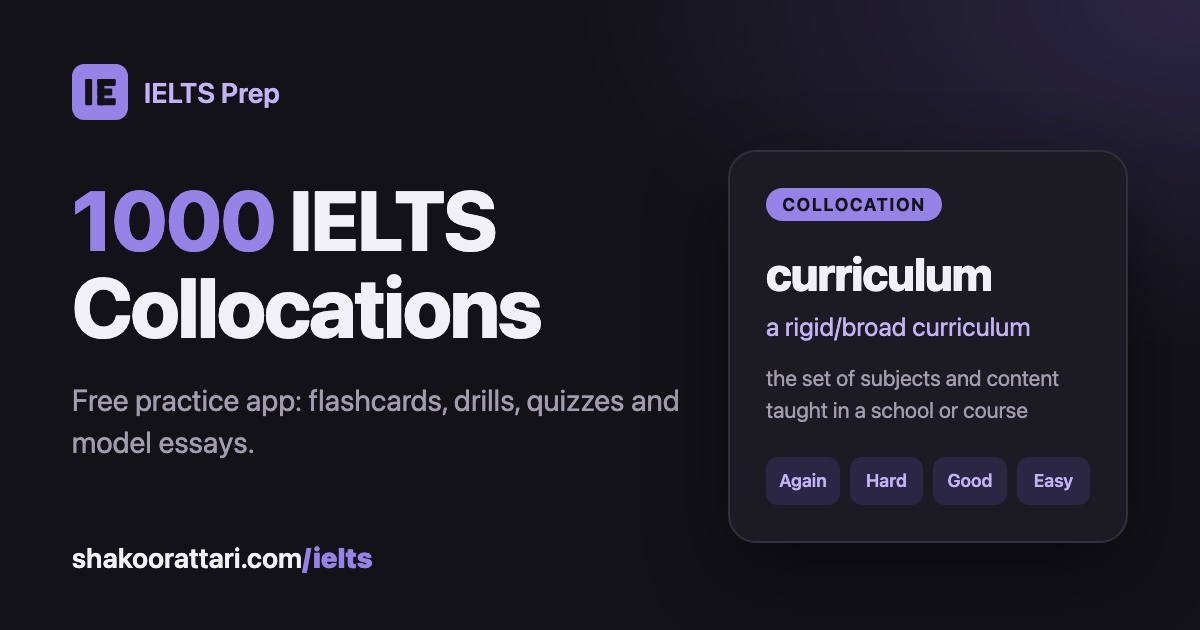
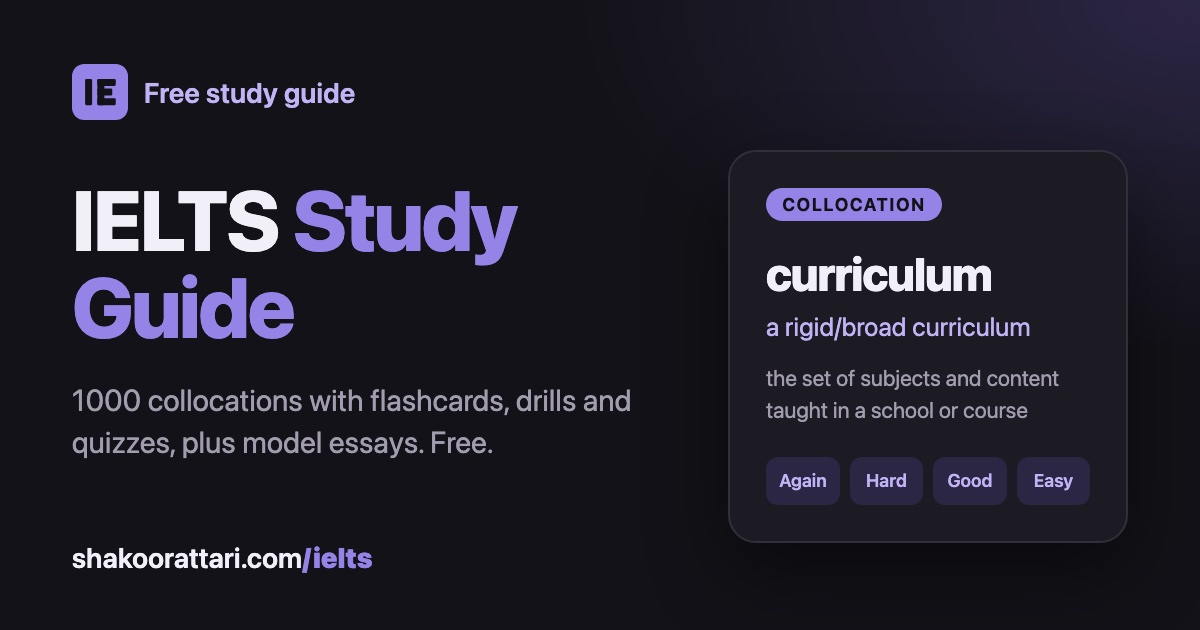
feat: brand the app as "IELTS Study Guide"
Rename from "1000 IELTS Collocations — Practice App" to the broader
"IELTS Study Guide" (title "IELTS Study Guide — 1000 Collocations & Model
Essays"): head metadata, JSON-LD name, static shell h1 and intro,
per-screen titles, header brand, 404, favicon label, README and the social
image. The brand text can now shrink so the header still fits at 320px.

diff --git a/index.html b/index.html
@@ -3,10 +3,10 @@
   <head>
     <meta charset="UTF-8" />
     <meta name="viewport" content="width=device-width, initial-scale=1.0" />
-    <title>1000 IELTS Collocations — Free Practice App</title>
+    <title>IELTS Study Guide — 1000 Collocations & Model Essays</title>
     <meta
       name="description"
-      content="Learn 1000 IELTS collocations with spaced-repetition flashcards, fill-in-the-blank drills, quizzes, writing practice and model essays. Free, no sign-up."
+      content="A free IELTS study guide: learn 1000 collocations with spaced-repetition flashcards, drills and quizzes, and read model essays. No sign-up."
     />
     <link rel="canonical" href="https://shakoorattari.com/ielts/" />
     <meta name="robots" content="index, follow, max-image-preview:large" />
@@ -19,13 +19,13 @@
     <link rel="apple-touch-icon" href="./apple-touch-icon.png" />
 
     <meta property="og:type" content="website" />
-    <meta property="og:site_name" content="1000 IELTS Collocations" />
+    <meta property="og:site_name" content="IELTS Study Guide" />
     <meta property="og:locale" content="en" />
     <meta property="og:url" content="https://shakoorattari.com/ielts/" />
-    <meta property="og:title" content="1000 IELTS Collocations — Free Practice App" />
+    <meta property="og:title" content="IELTS Study Guide — 1000 Collocations & Model Essays" />
     <meta
       property="og:description"
-      content="Learn 1000 IELTS collocations with spaced-repetition flashcards, fill-in-the-blank drills, quizzes, writing practice and model essays. Free, no sign-up."
+      content="A free IELTS study guide: learn 1000 collocations with spaced-repetition flashcards, drills and quizzes, and read model essays. No sign-up."
     />
     <meta property="og:image" content="https://shakoorattari.com/ielts/og-image.jpg" />
     <meta property="og:image:type" content="image/jpeg" />
@@ -33,18 +33,18 @@
     <meta property="og:image:height" content="630" />
     <meta
       property="og:image:alt"
-      content="1000 IELTS Collocations: a free practice app with flashcards, drills, quizzes and model essays"
+      content="IELTS Study Guide: 1000 collocations, spaced-repetition flashcards, drills, quizzes and model essays"
     />
     <meta name="twitter:card" content="summary_large_image" />
-    <meta name="twitter:title" content="1000 IELTS Collocations — Free Practice App" />
+    <meta name="twitter:title" content="IELTS Study Guide — 1000 Collocations & Model Essays" />
     <meta
       name="twitter:description"
-      content="Learn 1000 IELTS collocations with spaced-repetition flashcards, fill-in-the-blank drills, quizzes, writing practice and model essays. Free, no sign-up."
+      content="A free IELTS study guide: learn 1000 collocations with spaced-repetition flashcards, drills and quizzes, and read model essays. No sign-up."
     />
     <meta name="twitter:image" content="https://shakoorattari.com/ielts/og-image.jpg" />
     <meta
       name="twitter:image:alt"
-      content="1000 IELTS Collocations: a free practice app with flashcards, drills, quizzes and model essays"
+      content="IELTS Study Guide: 1000 collocations, spaced-repetition flashcards, drills, quizzes and model essays"
     />
 
     <script type="application/ld+json">
@@ -52,9 +52,9 @@
         "@context": "https://schema.org",
         "@type": "WebApplication",
         "@id": "https://shakoorattari.com/ielts/#app",
-        "name": "1000 IELTS Collocations — Practice App",
+        "name": "IELTS Study Guide",
         "url": "https://shakoorattari.com/ielts/",
-        "description": "Learn 1000 IELTS collocations with spaced-repetition flashcards, fill-in-the-blank drills, quizzes, writing practice and model essays. Free, no sign-up.",
+        "description": "A free IELTS study guide: learn 1000 collocations with spaced-repetition flashcards, drills and quizzes, and read model essays. No sign-up.",
         "applicationCategory": "EducationalApplication",
         "operatingSystem": "Any (web browser)",
         "browserRequirements": "Requires JavaScript",
@@ -131,10 +131,10 @@
   <body>
     <div id="root">
       <main class="shell">
-        <h1>1000 IELTS Collocations — Free Practice App</h1>
+        <h1>IELTS Study Guide: 1000 Collocations and Model Essays</h1>
         <p>
-          A free web app for learning the 1000 collocations that help IELTS candidates write and speak naturally, with
-          flashcards that adapt to what you remember. There is nothing to install and no account to create.
+          A free IELTS study guide built around the 1000 collocations that help candidates write and speak naturally, with
+          flashcards that adapt to what you remember and model essays to learn from. There is nothing to install and no account to create.
         </p>
         <noscript>
           <p><strong>This app needs JavaScript.</strong> Turn it on in your browser settings and reload the page.</p>

diff --git a/src/components/Layout.tsx b/src/components/Layout.tsx
@@ -66,12 +66,12 @@ export function Layout() {
             </svg>
           </button>
 
-          <NavLink to="/" className="flex min-w-0 items-center gap-2 shrink-0">
-            <span className="grid h-8 w-8 place-items-center rounded-lg bg-brand-500 text-sm font-bold text-on-brand">
+          <NavLink to="/" className="flex min-w-0 items-center gap-2">
+            <span className="grid h-8 w-8 shrink-0 place-items-center rounded-lg bg-brand-500 text-sm font-bold text-on-brand">
               IE
             </span>
-            <span className="flex flex-col leading-tight">
-              <span className="text-sm font-semibold tracking-tight">IELTS Prep</span>
+            <span className="flex min-w-0 flex-col leading-tight">
+              <span className="truncate text-sm font-semibold tracking-tight">IELTS Study Guide</span>
               <span className="hidden text-[10px] font-semibold uppercase tracking-wide text-brand-500 min-[400px]:block">
                 Collocations &amp; Essays
               </span>

diff --git a/public/404.html b/public/404.html
@@ -3,7 +3,7 @@
   <head>
     <meta charset="UTF-8" />
     <meta name="viewport" content="width=device-width, initial-scale=1.0" />
-    <title>Page not found — 1000 IELTS Collocations</title>
+    <title>Page not found — IELTS Study Guide</title>
     <meta name="robots" content="noindex" />
     <meta name="color-scheme" content="light dark" />
     <link rel="icon" type="image/svg+xml" href="https://shakoorattari.com/ielts/favicon.svg" />
@@ -62,7 +62,7 @@
   <body>
     <main>
       <h1>Page not found</h1>
-      <p>That address doesn’t exist in the IELTS collocations app.</p>
+      <p>That address doesn’t exist in the IELTS Study Guide.</p>
       <a class="button" href="https://shakoorattari.com/ielts/">Open the app</a>
       <p><a class="text" href="https://shakoorattari.com/">Back to shakoorattari.com</a></p>
     </main>

diff --git a/src/lib/documentTitle.ts b/src/lib/documentTitle.ts
@@ -1,9 +1,9 @@
 import { useEffect } from 'react';
 import { useLocation } from 'react-router-dom';
 
-export const APP_TITLE = '1000 IELTS Collocations — Free Practice App';
+export const APP_TITLE = 'IELTS Study Guide — 1000 Collocations & Model Essays';
 
-const SUFFIX = ' — IELTS Prep';
+const SUFFIX = ' — IELTS Study Guide';
 
 // A distinct title per screen: screen readers announce it on navigation (WCAG 2.4.2) and browser tabs, history
 // and bookmarks stay readable. The dashboard keeps the full app title. Essay pages set their own (EssayReader).

diff --git a/src/pages/EssayReader.tsx b/src/pages/EssayReader.tsx
@@ -45,7 +45,7 @@ export function EssayReader() {
 
   useEffect(() => {
     window.scrollTo({ top: 0 });
-    if (essay) document.title = `Essay ${essay.n} — IELTS Prep`;
+    if (essay) document.title = `Essay ${essay.n} — IELTS Study Guide`;
     return () => {
       document.title = APP_TITLE;
     };

diff --git a/README.md b/README.md
@@ -1,8 +1,8 @@
-# 1000 IELTS Collocations — Practice App
+# IELTS Study Guide — 1000 Collocations and Model Essays
 
 **Live:** https://shakoorattari.com/ielts/
 
-A focused practice app for memorizing and actively using the **1000 IELTS collocations**
+A focused study guide and practice app for memorizing and actively using the **1000 IELTS collocations**
 (10 themes × 10 topics × 10 collocations each) needed for a Band 8 writing/speaking score.
 
 Built with React, TypeScript, Tailwind CSS, and a local spaced-repetition engine —
